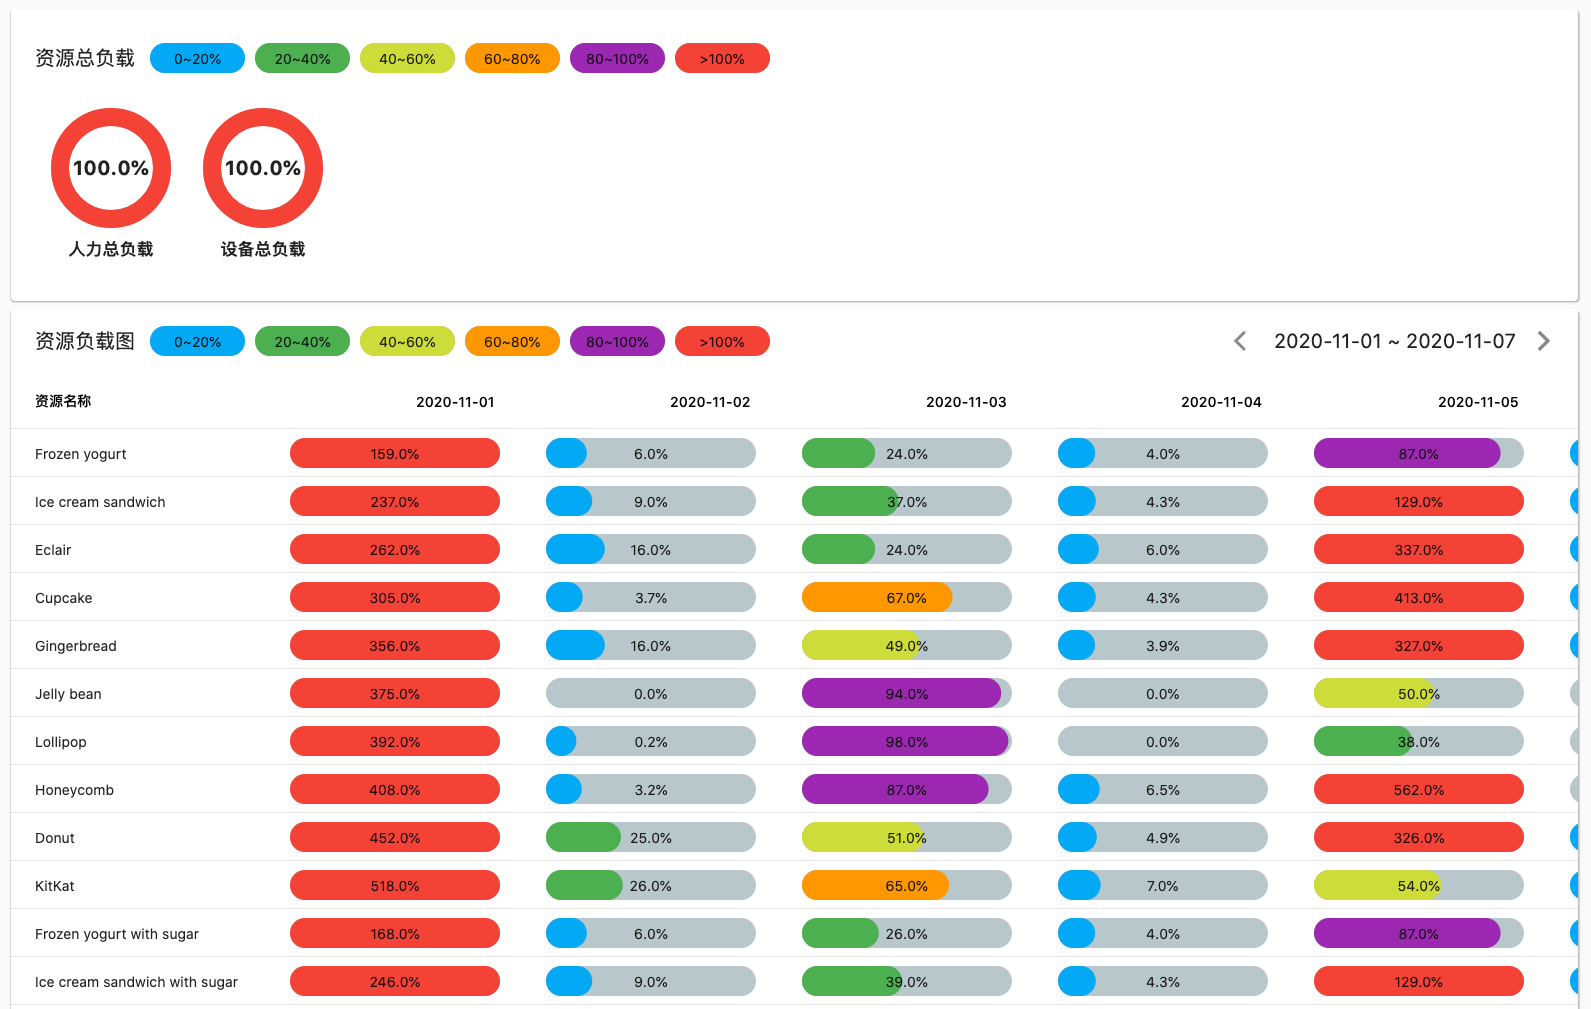
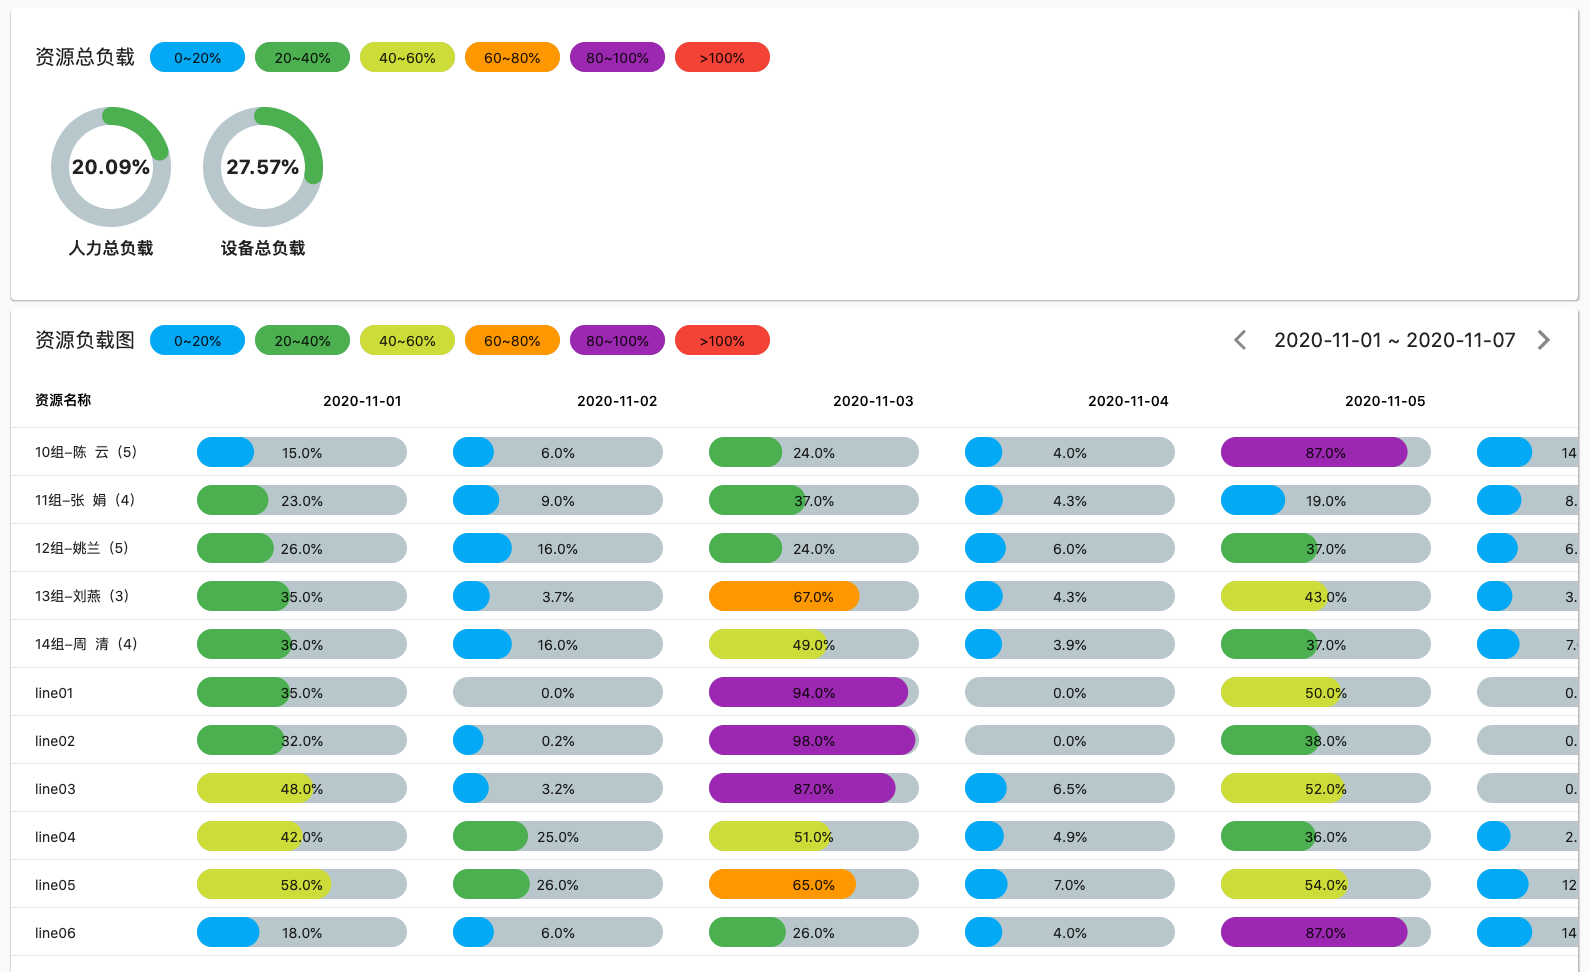
feat: fix load summary computation

diff --git a/lib/models/mock.dart b/lib/models/mock.dart
@@ -143,106 +143,28 @@ final List<Order> orders = <Order>[
 ];
 
 final List<ResourceLoad> resources = <ResourceLoad>[
-  ResourceLoad('Frozen yogurt', ResourceType.humanResource,
-      [159, 6.0, 24, 4.0, 87, 14, 1]),
-  ResourceLoad('Ice cream sandwich', ResourceType.humanResource,
-      [237, 9.0, 37, 4.3, 129, 8, 1]),
+  ResourceLoad('10组-陈  云（5）', ResourceType.humanResource,
+      [15, 6.0, 24, 4.0, 87, 14, 1]),
+  ResourceLoad('11组-张  娟（4）', ResourceType.humanResource,
+      [23, 9.0, 37, 4.3, 19, 8, 1]),
   ResourceLoad(
-      'Eclair', ResourceType.humanResource, [262, 16.0, 24, 6.0, 337, 6, 7]),
+      '12组-姚兰（5）', ResourceType.humanResource, [26, 16.0, 24, 6.0, 37, 6, 7]),
   ResourceLoad(
-      'Cupcake', ResourceType.humanResource, [305, 3.7, 67, 4.3, 413, 3, 8]),
-  ResourceLoad('Gingerbread', ResourceType.humanResource,
-      [356, 16.0, 49, 3.9, 327, 7, 16]),
+      '13组-刘燕（3）', ResourceType.humanResource, [35, 3.7, 67, 4.3, 43, 3, 8]),
+  ResourceLoad('14组-周  清（4）', ResourceType.humanResource,
+      [36, 16.0, 49, 3.9, 37, 7, 16]),
   ResourceLoad(
-      'Jelly bean', ResourceType.humanResource, [375, 0.0, 94, 0.0, 50, 0, 0]),
+      'line01', ResourceType.equipmentResource, [35, 0.0, 94, 0.0, 50, 0, 0]),
   ResourceLoad(
-      'Lollipop', ResourceType.humanResource, [392, 0.2, 98, 0.0, 38, 0, 2]),
+      'line02', ResourceType.equipmentResource, [32, 0.2, 98, 0.0, 38, 0, 2]),
   ResourceLoad(
-      'Honeycomb', ResourceType.humanResource, [408, 3.2, 87, 6.5, 562, 0, 45]),
+      'line03', ResourceType.equipmentResource, [48, 3.2, 87, 6.5, 52, 0, 45]),
   ResourceLoad(
-      'Donut', ResourceType.humanResource, [452, 25.0, 51, 4.9, 326, 2, 22]),
+      'line04', ResourceType.equipmentResource, [42, 25.0, 51, 4.9, 36, 2, 22]),
   ResourceLoad(
-      'KitKat', ResourceType.humanResource, [518, 26.0, 65, 7.0, 54, 12, 6]),
-  ResourceLoad('Frozen yogurt with sugar', ResourceType.humanResource,
-      [168, 6.0, 26, 4.0, 87, 14, 1]),
-  ResourceLoad('Ice cream sandwich with sugar', ResourceType.humanResource,
-      [246, 9.0, 39, 4.3, 129, 8, 1]),
-  ResourceLoad('Eclair with sugar', ResourceType.humanResource,
-      [271, 16.0, 26, 6.0, 337, 6, 7]),
-  ResourceLoad('Cupcake with sugar', ResourceType.humanResource,
-      [314, 3.7, 69, 4.3, 413, 3, 8]),
-  ResourceLoad('Gingerbread with sugar', ResourceType.humanResource,
-      [345, 16.0, 51, 3.9, 327, 7, 16]),
-  ResourceLoad('Jelly bean with sugar', ResourceType.humanResource,
-      [364, 0.0, 96, 0.0, 50, 0, 0]),
-  ResourceLoad('Lollipop with sugar', ResourceType.humanResource,
-      [401, 0.2, 100, 0.0, 38, 0, 2]),
-  ResourceLoad('Honeycomb with sugar', ResourceType.humanResource,
-      [417, 3.2, 89, 6.5, 562, 0, 45]),
-  ResourceLoad('Donut with sugar', ResourceType.humanResource,
-      [461, 25.0, 53, 4.9, 326, 2, 22]),
-  ResourceLoad('KitKat with sugar', ResourceType.humanResource,
-      [527, 26.0, 67, 7.0, 54, 12, 6]),
-  ResourceLoad('Frozen yogurt with honey', ResourceType.humanResource,
-      [223, 6.0, 36, 4.0, 87, 14, 1]),
-  ResourceLoad('Ice cream sandwich with honey', ResourceType.humanResource,
-      [301, 9.0, 49, 4.3, 129, 8, 1]),
-  ResourceLoad('Eclair with honey', ResourceType.humanResource,
-      [326, 16.0, 36, 6.0, 337, 6, 7]),
-  ResourceLoad('Cupcake with honey', ResourceType.humanResource,
-      [369, 3.7, 79, 4.3, 413, 3, 8]),
-  ResourceLoad('Gingerbread with honey', ResourceType.humanResource,
-      [420, 16.0, 61, 3.9, 327, 7, 16]),
-  ResourceLoad('Jelly bean with honey', ResourceType.humanResource,
-      [439, 0.0, 106, 0.0, 50, 0, 0]),
-  ResourceLoad('Lollipop with honey', ResourceType.humanResource,
-      [456, 0.2, 110, 0.0, 38, 0, 2]),
-  ResourceLoad('Honeycomb with honey', ResourceType.humanResource,
-      [472, 3.2, 99, 6.5, 562, 0, 45]),
-  ResourceLoad('Donut with honey', ResourceType.humanResource,
-      [516, 25.0, 63, 4.9, 326, 2, 22]),
-  ResourceLoad('KitKat with honey', ResourceType.humanResource,
-      [582, 26.0, 77, 7.0, 54, 12, 6]),
-  ResourceLoad('Frozen yogurt with milk', ResourceType.humanResource,
-      [262, 8.4, 36, 12.0, 194, 44, 1]),
-  ResourceLoad('Ice cream sandwich with milk', ResourceType.equipmentResource,
-      [339, 11.4, 49, 12.3, 236, 38, 1]),
-  ResourceLoad('Eclair with milk', ResourceType.equipmentResource,
-      [365, 18.4, 36, 14.0, 444, 36, 7]),
-  ResourceLoad('Cupcake with milk', ResourceType.equipmentResource,
-      [408, 6.1, 79, 12.3, 520, 33, 8]),
-  ResourceLoad('Gingerbread with milk', ResourceType.equipmentResource,
-      [459, 18.4, 61, 11.9, 434, 37, 16]),
-  ResourceLoad('Jelly bean with milk', ResourceType.equipmentResource,
-      [478, 2.4, 106, 8.0, 157, 30, 0]),
-  ResourceLoad('Lollipop with milk', ResourceType.equipmentResource,
-      [495, 2.6, 110, 8.0, 145, 30, 2]),
-  ResourceLoad('Honeycomb with milk', ResourceType.equipmentResource,
-      [511, 5.6, 99, 14.5, 669, 30, 45]),
-  ResourceLoad('Donut with milk', ResourceType.equipmentResource,
-      [555, 27.4, 63, 12.9, 433, 32, 22]),
-  ResourceLoad('KitKat with milk', ResourceType.equipmentResource,
-      [621, 28.4, 77, 15.0, 161, 42, 6]),
-  ResourceLoad('Coconut slice and frozen yogurt',
-      ResourceType.equipmentResource, [318, 21.0, 31, 5.5, 96, 14, 7]),
-  ResourceLoad('Coconut slice and ice cream sandwich',
-      ResourceType.equipmentResource, [396, 24.0, 44, 5.8, 138, 8, 7]),
-  ResourceLoad('Coconut slice and eclair', ResourceType.equipmentResource,
-      [421, 31.0, 31, 7.5, 346, 6, 13]),
-  ResourceLoad('Coconut slice and cupcake', ResourceType.equipmentResource,
-      [464, 18.7, 74, 5.8, 422, 3, 14]),
-  ResourceLoad('Coconut slice and gingerbread', ResourceType.equipmentResource,
-      [515, 31.0, 56, 5.4, 316, 7, 22]),
-  ResourceLoad('Coconut slice and jelly bean', ResourceType.equipmentResource,
-      [534, 15.0, 101, 1.5, 59, 0, 6]),
-  ResourceLoad('Coconut slice and lollipop', ResourceType.equipmentResource,
-      [551, 15.2, 105, 1.5, 47, 0, 8]),
-  ResourceLoad('Coconut slice and honeycomb', ResourceType.equipmentResource,
-      [567, 18.2, 94, 8.0, 571, 0, 51]),
-  ResourceLoad('Coconut slice and donut', ResourceType.equipmentResource,
-      [611, 40.0, 58, 6.4, 335, 2, 28]),
-  ResourceLoad('Coconut slice and KitKat', ResourceType.equipmentResource,
-      [677, 41.0, 72, 8.5, 63, 12, 12]),
+      'line05', ResourceType.equipmentResource, [58, 26.0, 65, 7.0, 54, 12, 6]),
+  ResourceLoad('line06', ResourceType.equipmentResource,
+      [18, 6.0, 26, 4.0, 87, 14, 1]),
 ];
 
 final List<OrderPlan> orderPlans = <OrderPlan>[

diff --git a/lib/widgets/resource_load.dart b/lib/widgets/resource_load.dart
@@ -7,7 +7,6 @@ import 'package:crossplatform/models/resource.dart';
 import 'package:flutter/material.dart';
 import 'package:percent_indicator/circular_percent_indicator.dart';
 import 'package:percent_indicator/linear_percent_indicator.dart';
-import 'package:quiver/iterables.dart';
 
 class ResourceLoadSummary extends StatelessWidget {
   const ResourceLoadSummary(this._dataSource);
@@ -24,7 +23,7 @@ class ResourceLoadSummary extends StatelessWidget {
       }
     }
     if (count == 0) return 0.0;
-    final s = load / count;
+    final s = load / 100 / count;
     return s > 1.0 ? 1.0 : s;
   }
 
@@ -91,7 +90,7 @@ class ResourceLoadSummary extends StatelessWidget {
                       animation: true,
                       percent: humanLoadSummary,
                       center: Text(
-                        "${humanLoadSummary * 100}%",
+                        "${(humanLoadSummary * 100).toStringAsFixed(2)}%",
                         style: const TextStyle(
                             fontWeight: FontWeight.bold, fontSize: 20.0),
                       ),
@@ -112,7 +111,7 @@ class ResourceLoadSummary extends StatelessWidget {
                       animation: true,
                       percent: equipmentLoadSummary,
                       center: Text(
-                        "${equipmentLoadSummary * 100}%",
+                        "${(equipmentLoadSummary * 100).toStringAsFixed(2)}%",
                         style: const TextStyle(
                             fontWeight: FontWeight.bold, fontSize: 20.0),
                       ),

diff --git a/lib/apis/client.dart b/lib/apis/client.dart
@@ -1,0 +1,29 @@
+import 'dart:convert';
+import 'package:http/http.dart' as http;
+import 'dart:io';
+
+final httpClient = new HttpClient();
+const host = "http://8.131.96.86";
+
+Future<String> sendGetRequest(String url) async {
+  return http.Client().get(url).then((http.Response response) => response.body);
+}
+
+Future<String> sendPostRequest(String url, Object body) async {
+  String result;
+  try {
+    var request = await httpClient.postUrl(Uri.parse(url));
+    request.write(body);
+    var response = await request.close();
+    if (response.statusCode == HttpStatus.ok) {
+      var json = await response.transform(utf8.decoder).join();
+      var data = jsonDecode(json);
+      result = data['origin'];
+    } else {
+      result = 'Error getting IP address:\nHttp status ${response.statusCode}';
+    }
+  } catch (exception) {
+    result = 'Failed getting IP address';
+  }
+  return result;
+}

diff --git a/lib/models/schedule.dart b/lib/models/schedule.dart
@@ -1,7 +1,11 @@
-import 'package:crossplatform/models/resource.dart';
-
 class OrderPlan {
   OrderPlan(this.id, this.orderId, this.productNum, this.schedules);
+
+  OrderPlan.fromJson(Map<String, dynamic> json)
+      : id = json['id'],
+        orderId = json['orderNo'],
+        productNum = json['productNum'],
+        schedules = json['schedules'];
 
   int id;
   String orderId;
@@ -33,6 +37,12 @@ class ProductionResource {
 
 class Schedule {
   Schedule(this.id, this.productNum, this.startTime, this.endTime);
+
+  Schedule.fromJson(Map<String, dynamic> json)
+      : id = json['id'],
+        productNum = json['productNum'],
+        startTime = json['startTime'],
+        endTime = json['endTime'];
 
   int id;
   int productNum;

diff --git a/lib/apis/schedule.dart b/lib/apis/schedule.dart
@@ -1,0 +1,22 @@
+import 'package:crossplatform/apis/client.dart';
+import 'dart:convert';
+
+import 'package:crossplatform/models/schedule.dart';
+
+void getPlanTable() {
+  sendGetRequest(
+          'http://localhost:8080/schedule/plan-table?pageSize=100&pageNum=1')
+      .then(
+    (value) {
+      List<dynamic> list = jsonDecode(value);
+      return list;
+    },
+  ).then((List<dynamic> value) {
+    for (dynamic el in value) {
+      print('$el\n');
+      Map map = jsonDecode(el);
+      print(OrderPlan.fromJson(map));
+    }
+  });
+  // print(res);
+}

diff --git a/lib/main.dart b/lib/main.dart
@@ -1,8 +1,10 @@
+import 'package:crossplatform/apis/schedule.dart';
 import 'package:crossplatform/widgets/home.dart';
 import 'package:flutter/material.dart';
 import 'package:google_fonts/google_fonts.dart';
 
 void main() {
+  getPlanTable();
   GoogleFonts.config.allowRuntimeFetching = false;
   runApp(App());
 }
